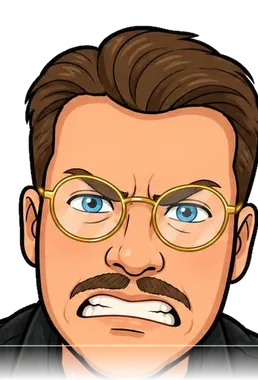
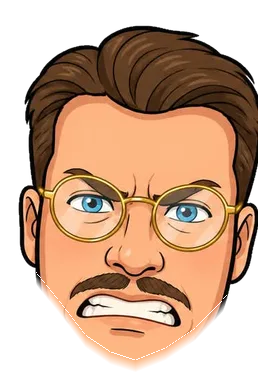
issue #537: inga snitt i ansiktet – runtime-klippet borta, käk-/skägg-konturmasker bakade i ansiktslagren

Changed region(s): [[0.0, 0.7237, 1.0, 1.0]]

diff --git a/src/live/trollkarl/trollkarl-figur.js b/src/live/trollkarl/trollkarl-figur.js
@@ -51,9 +51,6 @@ export function createWizard(host, { who = "rasmus", facing = "right", reducedMo
     .join("");
 
   svg.innerHTML = `
-  <defs>
-    <clipPath id="${id}-chin"><path d="M-20 -20 H${FW + 20} V${FH * 0.74} L${FW * 0.8} ${FH * 0.84} V${FH * 1.05} H${FW * 0.2} V${FH * 0.84} L-20 ${FH * 0.74} Z"/></clipPath>
-  </defs>
   <g data-part="flip">
     <g data-part="fig">
       ${legsSvg(t)}
@@ -62,7 +59,7 @@ export function createWizard(host, { who = "rasmus", facing = "right", reducedMo
       <g data-part="body">${bodySvg(t, who)}</g>
       <g data-part="head">
         ${neckSvg(t)}
-        <g data-part="face" clip-path="url(#${id}-chin)" transform="translate(${FX} ${FY})">${faceImgs}</g>
+        <g data-part="face" transform="translate(${FX} ${FY})">${faceImgs}</g>
         ${collarSvg(t, who)}
         <g data-part="hat">${hatSvg(t, who)}</g>
         <g data-part="wow" style="display:none" aria-hidden="true">
